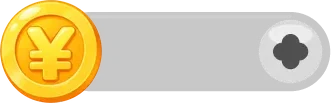
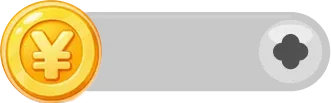
地图图标对齐

Changed region(s): [[0.0, 0.0, 0.3323, 1.0]]

diff --git a/app/assets/style.css b/app/assets/style.css
@@ -683,8 +683,8 @@ body{position:fixed;top:0;right:0;bottom:0;left:0;touch-action:manipulation}
 .lm-ico img{display:block;width:100%;height:auto}
 .lm-ico small{display:block;margin-top:1px;font-size:11px;font-weight:800;color:#FFF6E4;text-align:center;white-space:nowrap;text-shadow:0 1px 0 #7A3A12,0 0 3px #7A3A12}
 .lm-ico:active{transform:scale(.92)}
-.lm-ico.back{position:absolute;left:10px;top:calc(var(--sat) + 12px);width:35px}
-.lm-bank{position:absolute;left:50px;top:calc(var(--sat) + 7px);width:124px;pointer-events:none}
+.lm-ico.back{position:absolute;left:17.5px;top:calc(var(--sat) + 10px);width:35px}   /* 和下面 50px 宽的图标中心对齐 */
+.lm-bank{position:absolute;left:58px;top:calc(var(--sat) + 10px);width:118px;pointer-events:none}   /* 顶边和返回键对齐 */
 .lm-bank img{display:block;width:100%;height:auto}
 .lm-bank b{position:absolute;left:33%;right:24%;top:0;bottom:4%;display:flex;align-items:center;justify-content:center;font-size:16px;font-weight:900;color:#fff;text-shadow:0 1px 0 #7A3A12,1px 0 0 #7A3A12,-1px 0 0 #7A3A12,0 -1px 0 #7A3A12,0 2px 3px rgba(60,20,0,.5)}
 .lm-plus{position:absolute;right:2%;top:12%;width:24%;height:76%;border-radius:50%;background:none;border:0;padding:0;pointer-events:auto}

diff --git a/docs/assets/style.css b/docs/assets/style.css
@@ -674,8 +674,8 @@ body{position:fixed;top:0;right:0;bottom:0;left:0;touch-action:manipulation}
 .lm-ico img{display:block;width:100%;height:auto}
 .lm-ico small{display:block;margin-top:1px;font-size:11px;font-weight:800;color:#FFF6E4;text-align:center;white-space:nowrap;text-shadow:0 1px 0 #7A3A12,0 0 3px #7A3A12}
 .lm-ico:active{transform:scale(.92)}
-.lm-ico.back{position:absolute;left:10px;top:calc(var(--sat) + 12px);width:35px}
-.lm-bank{position:absolute;left:50px;top:calc(var(--sat) + 7px);width:124px;pointer-events:none}
+.lm-ico.back{position:absolute;left:17.5px;top:calc(var(--sat) + 10px);width:35px}   /* 和下面 50px 宽的图标中心对齐 */
+.lm-bank{position:absolute;left:58px;top:calc(var(--sat) + 10px);width:118px;pointer-events:none}   /* 顶边和返回键对齐 */
 .lm-bank img{display:block;width:100%;height:auto}
 .lm-bank b{position:absolute;left:33%;right:24%;top:0;bottom:4%;display:flex;align-items:center;justify-content:center;font-size:16px;font-weight:900;color:#fff;text-shadow:0 1px 0 #7A3A12,1px 0 0 #7A3A12,-1px 0 0 #7A3A12,0 -1px 0 #7A3A12,0 2px 3px rgba(60,20,0,.5)}
 .lm-plus{position:absolute;right:2%;top:12%;width:24%;height:76%;border-radius:50%;background:none;border:0;padding:0;pointer-events:auto}

diff --git a/versions/stable-v30/assets/style.css b/versions/stable-v30/assets/style.css
@@ -674,8 +674,8 @@ body{position:fixed;top:0;right:0;bottom:0;left:0;touch-action:manipulation}
 .lm-ico img{display:block;width:100%;height:auto}
 .lm-ico small{display:block;margin-top:1px;font-size:11px;font-weight:800;color:#FFF6E4;text-align:center;white-space:nowrap;text-shadow:0 1px 0 #7A3A12,0 0 3px #7A3A12}
 .lm-ico:active{transform:scale(.92)}
-.lm-ico.back{position:absolute;left:10px;top:calc(var(--sat) + 12px);width:35px}
-.lm-bank{position:absolute;left:50px;top:calc(var(--sat) + 7px);width:124px;pointer-events:none}
+.lm-ico.back{position:absolute;left:17.5px;top:calc(var(--sat) + 10px);width:35px}   /* 和下面 50px 宽的图标中心对齐 */
+.lm-bank{position:absolute;left:58px;top:calc(var(--sat) + 10px);width:118px;pointer-events:none}   /* 顶边和返回键对齐 */
 .lm-bank img{display:block;width:100%;height:auto}
 .lm-bank b{position:absolute;left:33%;right:24%;top:0;bottom:4%;display:flex;align-items:center;justify-content:center;font-size:16px;font-weight:900;color:#fff;text-shadow:0 1px 0 #7A3A12,1px 0 0 #7A3A12,-1px 0 0 #7A3A12,0 -1px 0 #7A3A12,0 2px 3px rgba(60,20,0,.5)}
 .lm-plus{position:absolute;right:2%;top:12%;width:24%;height:76%;border-radius:50%;background:none;border:0;padding:0;pointer-events:auto}

diff --git a/docs/index.html b/docs/index.html
@@ -4,7 +4,7 @@
   <meta charset="UTF-8" />
   <meta name="viewport" content="width=device-width, initial-scale=1.0, maximum-scale=1.0, user-scalable=no, viewport-fit=cover" />
   <title>校门口烤肠摊</title>
-  <link rel="stylesheet" href="./assets/style.css?v=261019112053" />
+  <link rel="stylesheet" href="./assets/style.css?v=261019112738" />
 </head>
 <body>
   <div id="app">
@@ -26,6 +26,6 @@
     <div class="log" id="log"></div>
   </div>
   <div class="overlay" id="overlay" hidden></div>
-  <script src="./assets/main.js?v=261019112053"></script>
+  <script src="./assets/main.js?v=261019112738"></script>
 </body>
 </html>
